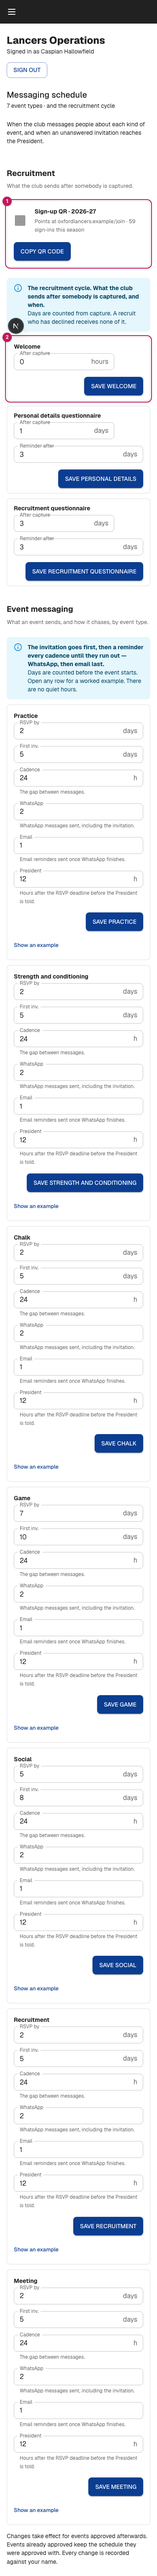
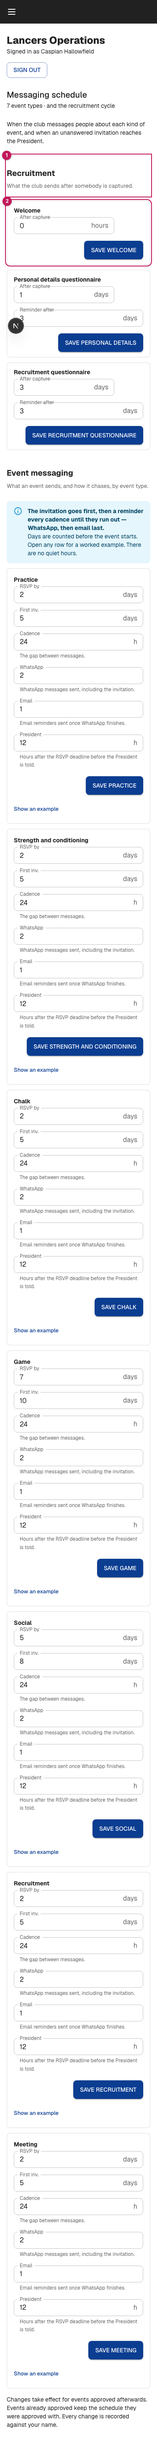
Drop W10's duplicated panel and stop fighting the row
The recruitment group carried a cloned info panel repeating what the section
heading and its line already said. That is the narration Brian has struck all
day, so it is gone; the page's own panel stays over the event types, whose chase
rules it actually describes.

Five attempts at pulling the SAVE button onto the field line are reverted. None
of them took - the row's layout is emotion's, not the inline styles' - and each
made the row worse than the component does unaided. It is also the right answer:
these rows are already the same shape as the seven event rows below them and
shorter, because they carry one or two fields instead of six. Making them
shorter still would make recruitment's rows diverge from the page they sit on.

W1 is approved with its QR button and page: "W1 looks fine."

Claude-Session: https://claude.ai/code/session_014HZAw6wp7JjvAtSVY3oosc

Changed region(s): [[0.0, 0.0, 0.968, 0.9997], [0.4107, 0.9684, 0.44, 0.9997]]

diff --git a/missions/intake/M-RECRUITMENT/mockups/proposals/W10-01.js b/missions/intake/M-RECRUITMENT/mockups/proposals/W10-01.js
@@ -2138,23 +2138,15 @@ must(rows, "the messaging schedule has no schedule-row to clone");
 const template = rows[0];
 const host = must(template.parentElement, "the schedule rows have no parent");
 
-// The heading for the new group, in the page's own rule-panel treatment.
+// No second info panel for recruitment. The section heading and its line already
+// say what this group is, and repeating it in a blue box underneath is the
+// narration Brian has struck all day. The page's own panel stays where it
+// belongs — over the event types, whose chase rules it actually describes — so
+// it is only located here, not cloned.
 const rule = must(
   document.querySelector('[data-testid="schedule-rule"]'),
-  "the messaging schedule has no rule panel to clone",
+  "the messaging schedule has no rule panel",
 );
-const cycleRule = rule.cloneNode(true);
-const ruleLeaves = [...cycleRule.querySelectorAll("*")].filter(
-  (n) => n.children.length === 0 && n.textContent.trim(),
-);
-const ruleText = [
-  "The recruitment cycle. What the club sends after somebody is captured, and when.",
-  "Days are counted from capture. A recruit who has declined receives none of it.",
-];
-ruleLeaves.forEach((leaf, i) => {
-  if (i < ruleText.length) leaf.textContent = ruleText[i];
-  else leaf.remove();
-});
 
 // One row per step, from the shipped row: same fields, same toggle, same SAVE.
 const step = ({ name, first, firstUnit, second, secondUnit, on, save }) => {
@@ -2230,10 +2222,15 @@ const step = ({ name, first, firstUnit, second, secondUnit, on, save }) => {
     grid.style.alignItems = "center";
     grid.style.margin = "0";
   }
-  // The SAVE button stays exactly where the shipped row puts it. Three attempts
-  // at moving it into the field row left it between the two fields with its
-  // label wrapped over three lines — fighting the component instead of using it.
-  // The height problem was the four removed fields, and that is already fixed.
+  // The SAVE button is left exactly where the shipped row puts it, and five
+  // attempts at pulling it onto the field line are reverted. None of them took —
+  // the styling is emotion's, not the inline styles' — and each one made the row
+  // worse than the component does on its own.
+  //
+  // It is also the right answer. These rows are now the same shape as the seven
+  // event rows below them, and shorter, because they carry one or two fields
+  // instead of six. Making them shorter still would make recruitment's rows
+  // diverge from the page they sit on, which is the opposite of the point.
 
   // Anything left in the row that holds neither text nor a control is spacing
   // the removed fields used to fill. It goes, or the row stays tall for content
@@ -2304,7 +2301,6 @@ host.insertBefore(recruitHead, template);
 // It should be on the recruit page." It lives on W1's board, behind a QR CODE
 // button top right, and on its own page at W1-04. This page is the cycle.
 
-host.insertBefore(cycleRule, template);
 for (const row of built) host.insertBefore(row, template);
 host.insertBefore(
   sectionHeading("Event messaging", "What an event sends, and how it chases, by event type."),

diff --git a/missions/intake/M-RECRUITMENT/mockups/src/W10-01.js b/missions/intake/M-RECRUITMENT/mockups/src/W10-01.js
@@ -52,23 +52,15 @@ must(rows, "the messaging schedule has no schedule-row to clone");
 const template = rows[0];
 const host = must(template.parentElement, "the schedule rows have no parent");
 
-// The heading for the new group, in the page's own rule-panel treatment.
+// No second info panel for recruitment. The section heading and its line already
+// say what this group is, and repeating it in a blue box underneath is the
+// narration Brian has struck all day. The page's own panel stays where it
+// belongs — over the event types, whose chase rules it actually describes — so
+// it is only located here, not cloned.
 const rule = must(
   document.querySelector('[data-testid="schedule-rule"]'),
-  "the messaging schedule has no rule panel to clone",
+  "the messaging schedule has no rule panel",
 );
-const cycleRule = rule.cloneNode(true);
-const ruleLeaves = [...cycleRule.querySelectorAll("*")].filter(
-  (n) => n.children.length === 0 && n.textContent.trim(),
-);
-const ruleText = [
-  "The recruitment cycle. What the club sends after somebody is captured, and when.",
-  "Days are counted from capture. A recruit who has declined receives none of it.",
-];
-ruleLeaves.forEach((leaf, i) => {
-  if (i < ruleText.length) leaf.textContent = ruleText[i];
-  else leaf.remove();
-});
 
 // One row per step, from the shipped row: same fields, same toggle, same SAVE.
 const step = ({ name, first, firstUnit, second, secondUnit, on, save }) => {
@@ -144,10 +136,15 @@ const step = ({ name, first, firstUnit, second, secondUnit, on, save }) => {
     grid.style.alignItems = "center";
     grid.style.margin = "0";
   }
-  // The SAVE button stays exactly where the shipped row puts it. Three attempts
-  // at moving it into the field row left it between the two fields with its
-  // label wrapped over three lines — fighting the component instead of using it.
-  // The height problem was the four removed fields, and that is already fixed.
+  // The SAVE button is left exactly where the shipped row puts it, and five
+  // attempts at pulling it onto the field line are reverted. None of them took —
+  // the styling is emotion's, not the inline styles' — and each one made the row
+  // worse than the component does on its own.
+  //
+  // It is also the right answer. These rows are now the same shape as the seven
+  // event rows below them, and shorter, because they carry one or two fields
+  // instead of six. Making them shorter still would make recruitment's rows
+  // diverge from the page they sit on, which is the opposite of the point.
 
   // Anything left in the row that holds neither text nor a control is spacing
   // the removed fields used to fill. It goes, or the row stays tall for content
@@ -218,7 +215,6 @@ host.insertBefore(recruitHead, template);
 // It should be on the recruit page." It lives on W1's board, behind a QR CODE
 // button top right, and on its own page at W1-04. This page is the cycle.
 
-host.insertBefore(cycleRule, template);
 for (const row of built) host.insertBefore(row, template);
 host.insertBefore(
   sectionHeading("Event messaging", "What an event sends, and how it chases, by event type."),

diff --git a/missions/intake/M-RECRUITMENT/mockups/proposals/W1-04.js b/missions/intake/M-RECRUITMENT/mockups/proposals/W1-04.js
@@ -2123,8 +2123,7 @@ host.append(card);
 // The code itself. Drawn — there is nothing in this product to clone.
 const code = document.createElement("div");
 code.textContent = "▦";
-code.style.cssText =
-  "font-size:220px;line-height:1;color:#111;letter-spacing:-8px;margin:0 0 8px";
+code.style.cssText = "font-size:220px;line-height:1;color:#111;letter-spacing:-8px;margin:0 0 8px";
 card.append(code);
 
 const points = document.createElement("div");
@@ -2165,6 +2164,6 @@ card.append(note2);
 
 mark(card, 1);
 
-await settle()
+await settle();
 
 })()

diff --git a/missions/intake/M-RECRUITMENT/workflows/W1-the-recruit-board.md b/missions/intake/M-RECRUITMENT/workflows/W1-the-recruit-board.md
@@ -317,9 +317,9 @@ they existed to answer _"where did this recruit come from"_, and the recruit's
 own record already answers that — `Came in through` is a stored field set at the
 door.
 
-**This arrived after the approval recorded below**, and is noted here rather than
-by reopening the workflow, because the ledger's ordering rule would invalidate
-`W2` through `W8`.
+**Approved by Brian on 2026-08-31**, after the fact: _"W1 looks fine."_ It is
+recorded here rather than by reopening the workflow, because the ledger's
+ordering rule would have invalidated `W2` through `W8`.
 
 **Open, and not invented:** "once per season" means something has to mint next
 season's code. Whether that happens automatically at rollover or by a button
